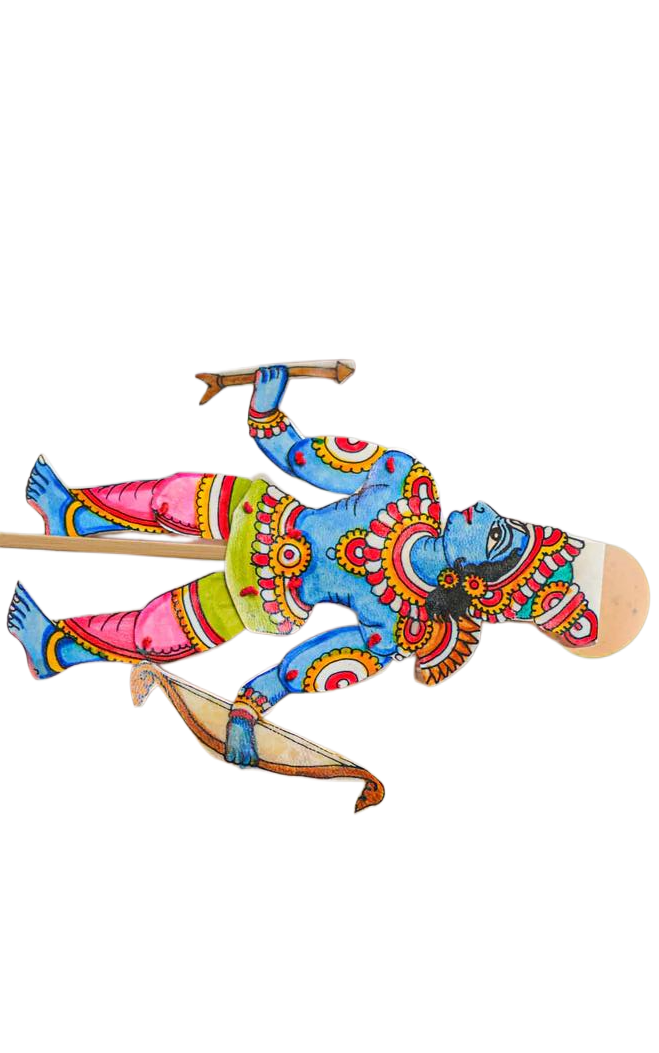
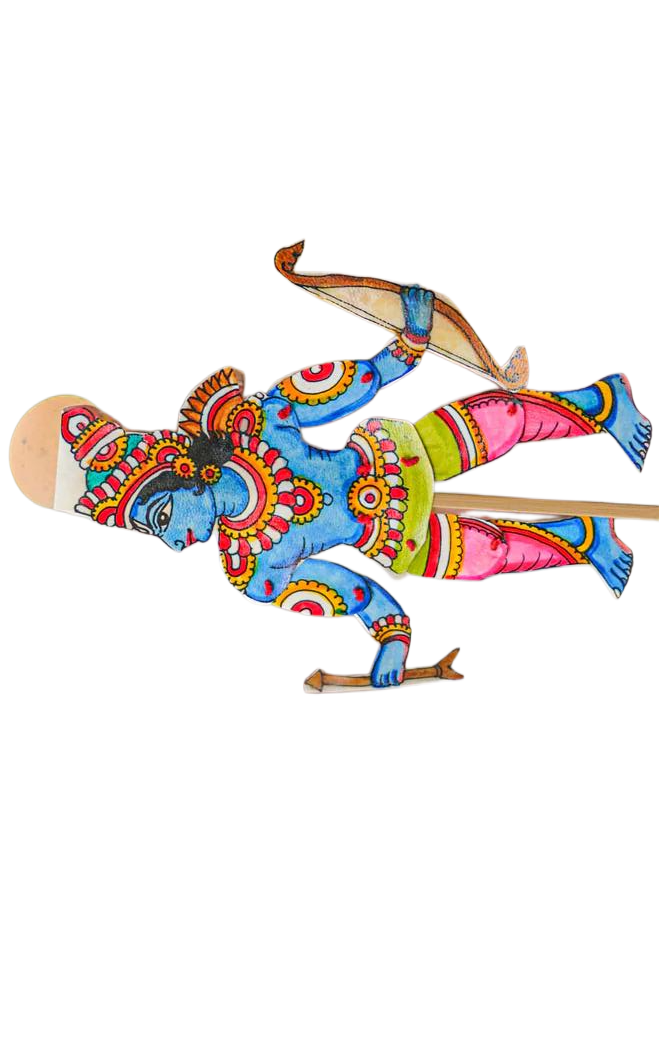
fix img

Changed region(s): [[0.0, 0.2127, 1.0, 0.7901]]

diff --git a/index.html b/index.html
@@ -112,7 +112,8 @@
         .scene { position: absolute; bottom: 0; width: 100%; height: 100%; opacity: 0; transition: opacity 1s ease-in-out; display: flex; justify-content: space-between; align-items: flex-end; padding: 0; }
         .scene.active { opacity: 1; }
 
-        .elephant, .person { position: absolute; bottom: 0; height: 240px; width: auto; filter: drop-shadow(5px 5px 10px rgba(0,0,0,0.6)); transition: all 1.5s ease-out; object-fit: contain; }
+        .elephant, .person { position: absolute; bottom: 0; height: 240px; width: auto; filter: drop-shadow(5px 5px 10px rgba(0,0,0,0.6)); transition: all 1.5s ease-out; object-fit: contain; /* ADD THIS LINE: */
+            image-orientation: from-image;}
         
         .scene-elephants .elephant { bottom: -10px; transition: opacity 1s ease; }
         .scene-elephants .left { transform: scaleX(-1); }
